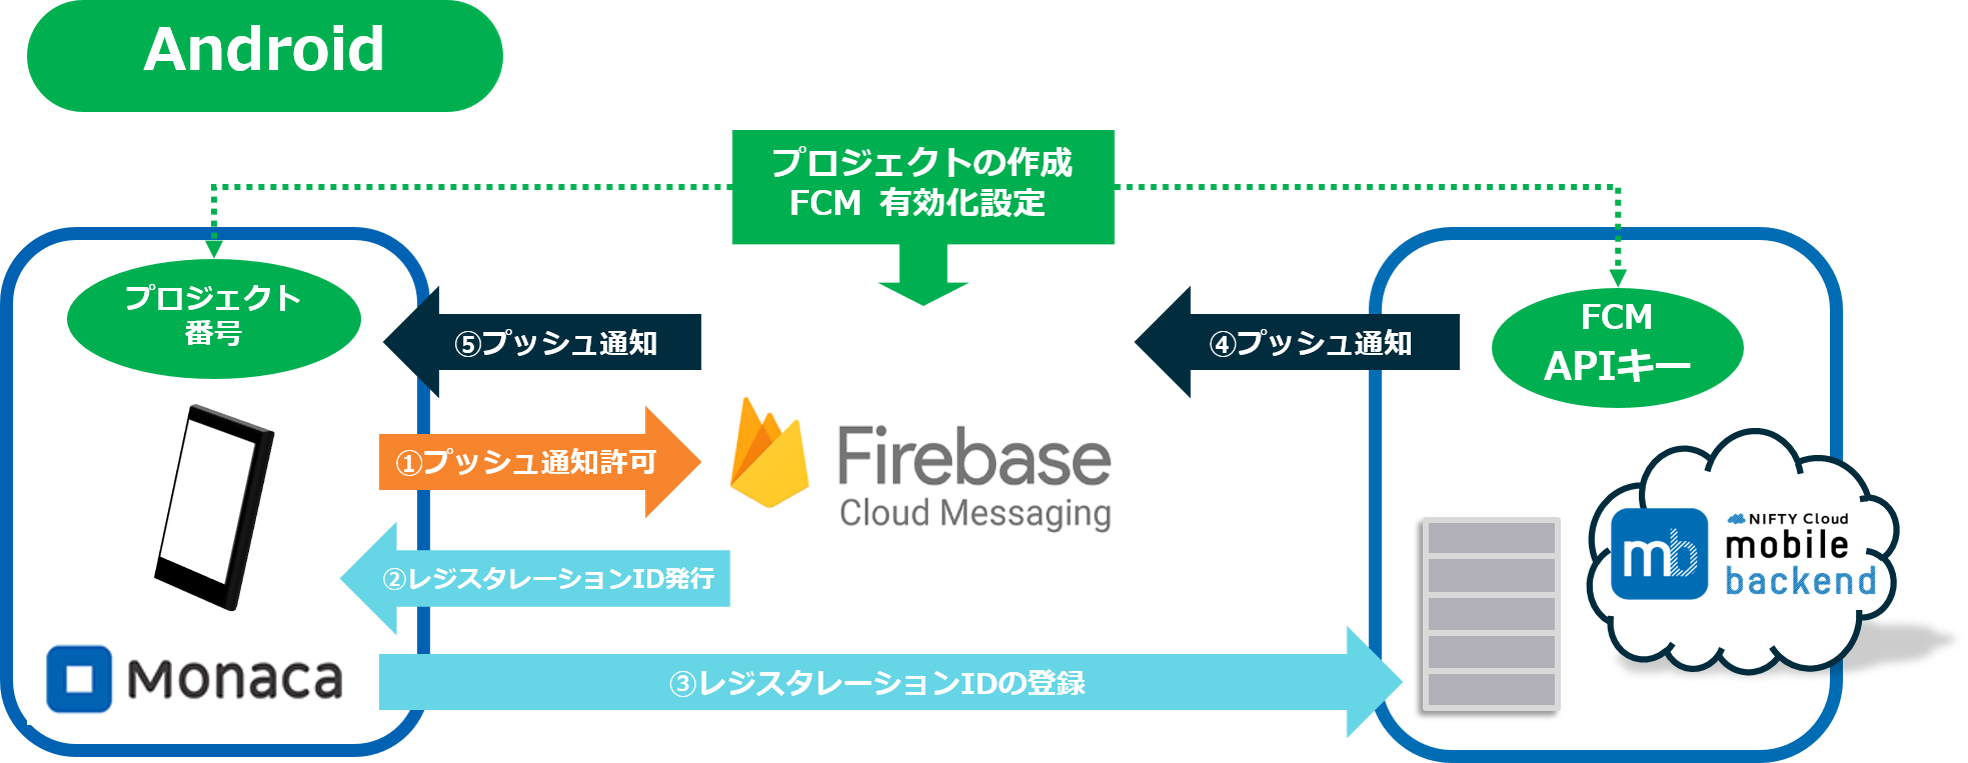
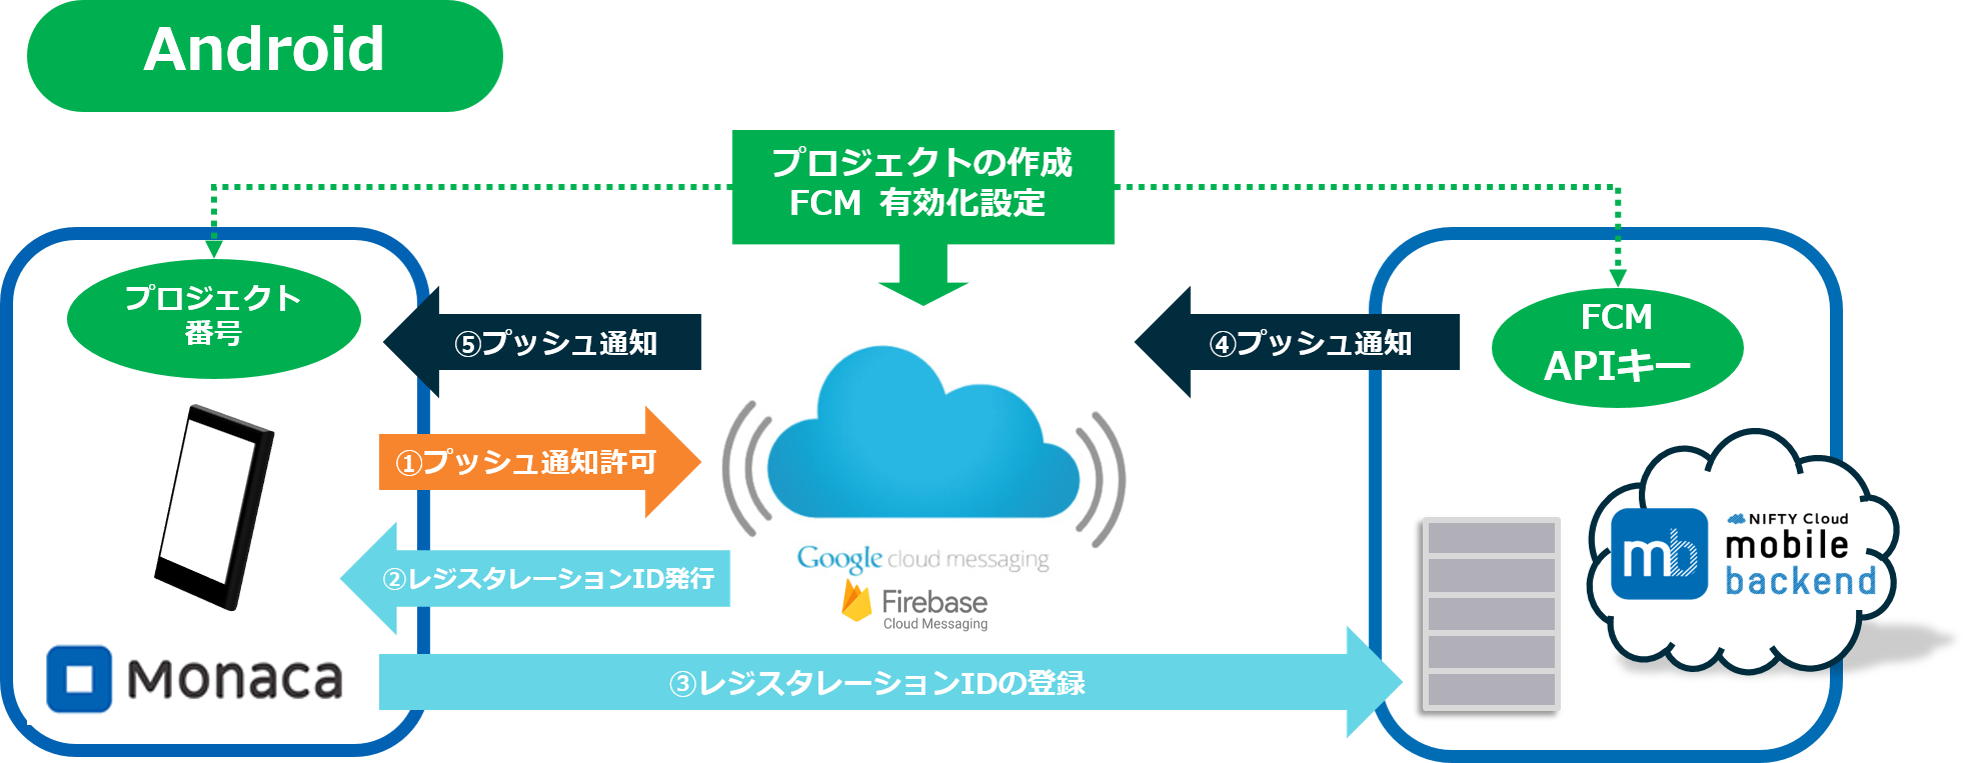
update GCM to FCM 3
・画像修正
・ドキュメント修正
　→注意書きの追加
　→リンクの修正

Changed region(s): [[0.341, 0.4522, 0.5889, 0.6933], [0.4029, 0.7235, 0.5269, 0.844]]

diff --git a/README.md b/README.md
@@ -39,6 +39,7 @@
  * Androidの通知サービス __FCM（Firebase Cloud Messaging）__
 
  ![画像a1](/readme-img/a001.png)
+ ※ FCMはGCM(Google Cloud Messaging)の新バージョンです。既にGCMにてプロジェクトの作成・GCMの有効化設定を終えている場合は、継続してご利用いただくことが可能です。新規でGCMをご利用いただくことはできませんので、あらかじめご了承ください。
 
  * iOSの通知サービス　__APNs（Apple Push Notification Service）__
 
@@ -54,7 +55,7 @@
 #### Android端末で動作確認をする場合
 * ニフティクラウド mobile backendと連携させるためのAPIキー(サーバーキー)と端末情報の登録処理時に必要なSender ID(送信者ID)を取得する必要があります
 * 下記リンク先のドキュメントを参考に、FCMプロジェクトの作成とAPIキー・Sender IDの取得を行ってください
- * __[mobile backendとFCMの連携に必要な設定](https://github.com/NIFTYCloud-mbaas/ncmb_doc/blob/hotfix/fcm_changes/doc/current/tutorial/push_setup_android.html)__
+ * __[mobile backendとFCMの連携に必要な設定](http://mb.cloud.nifty.com/doc/current/tutorial/push_setup_android.html)__
 
 #### iOS端末で動作確認をする場合
 * Android端末と違い、作業が少し複雑です
